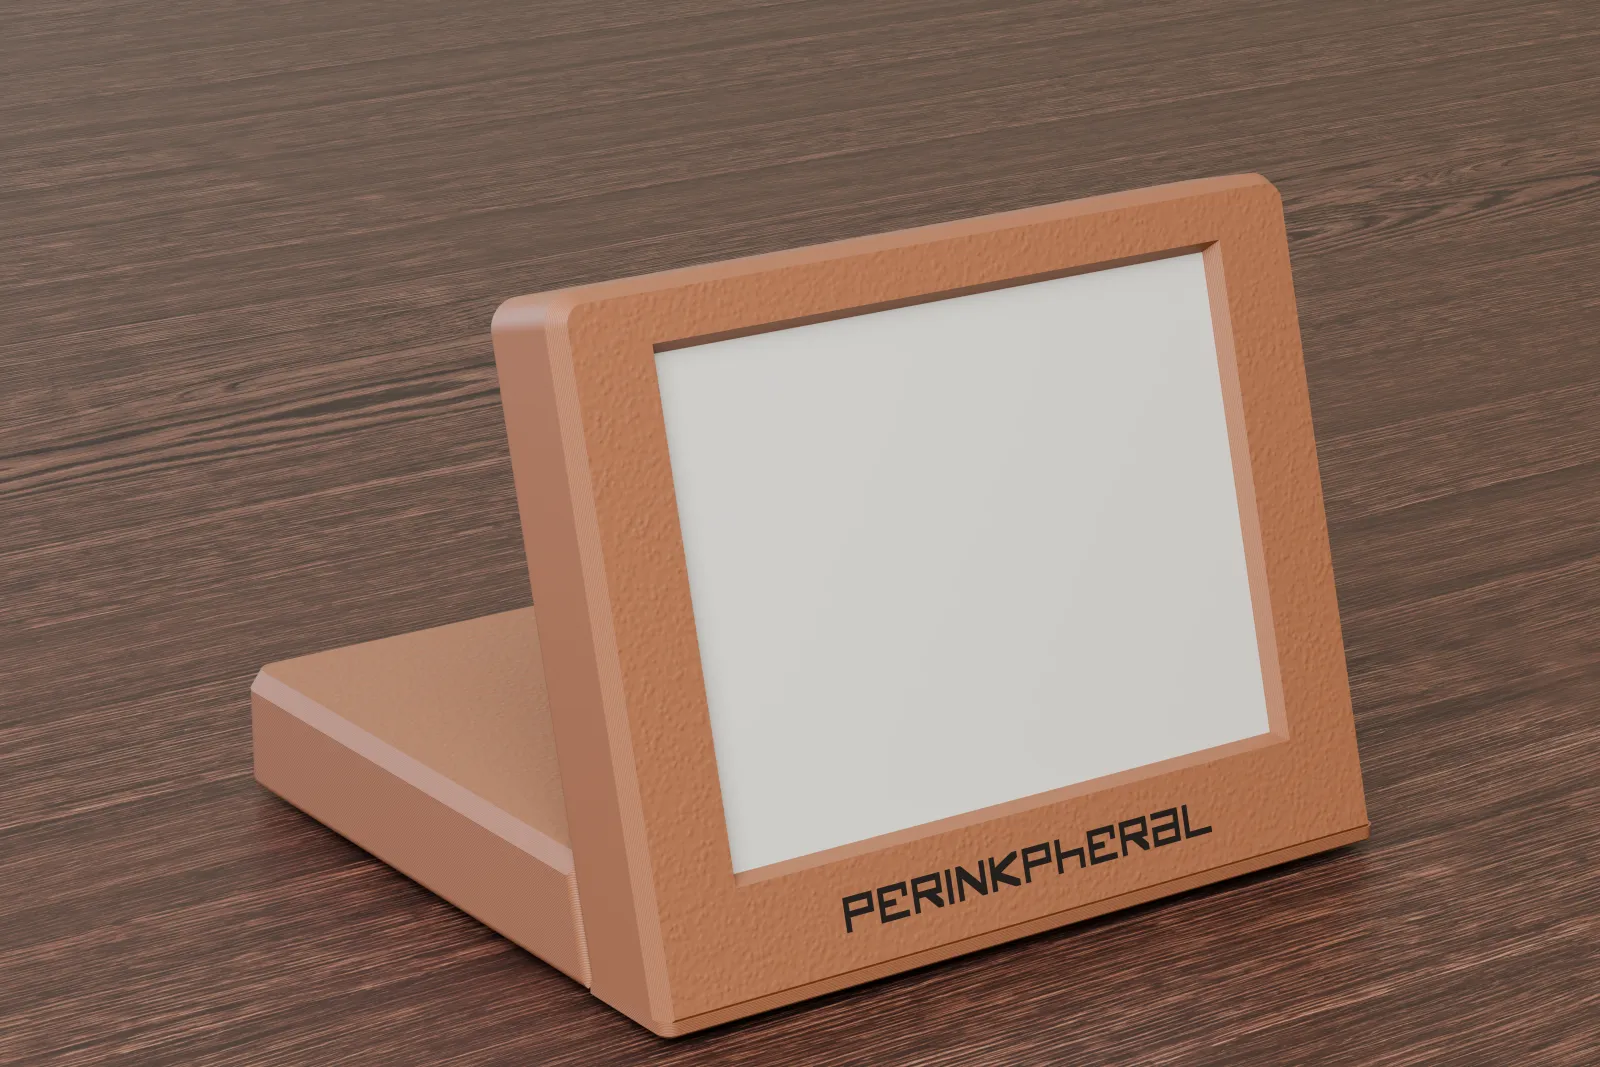
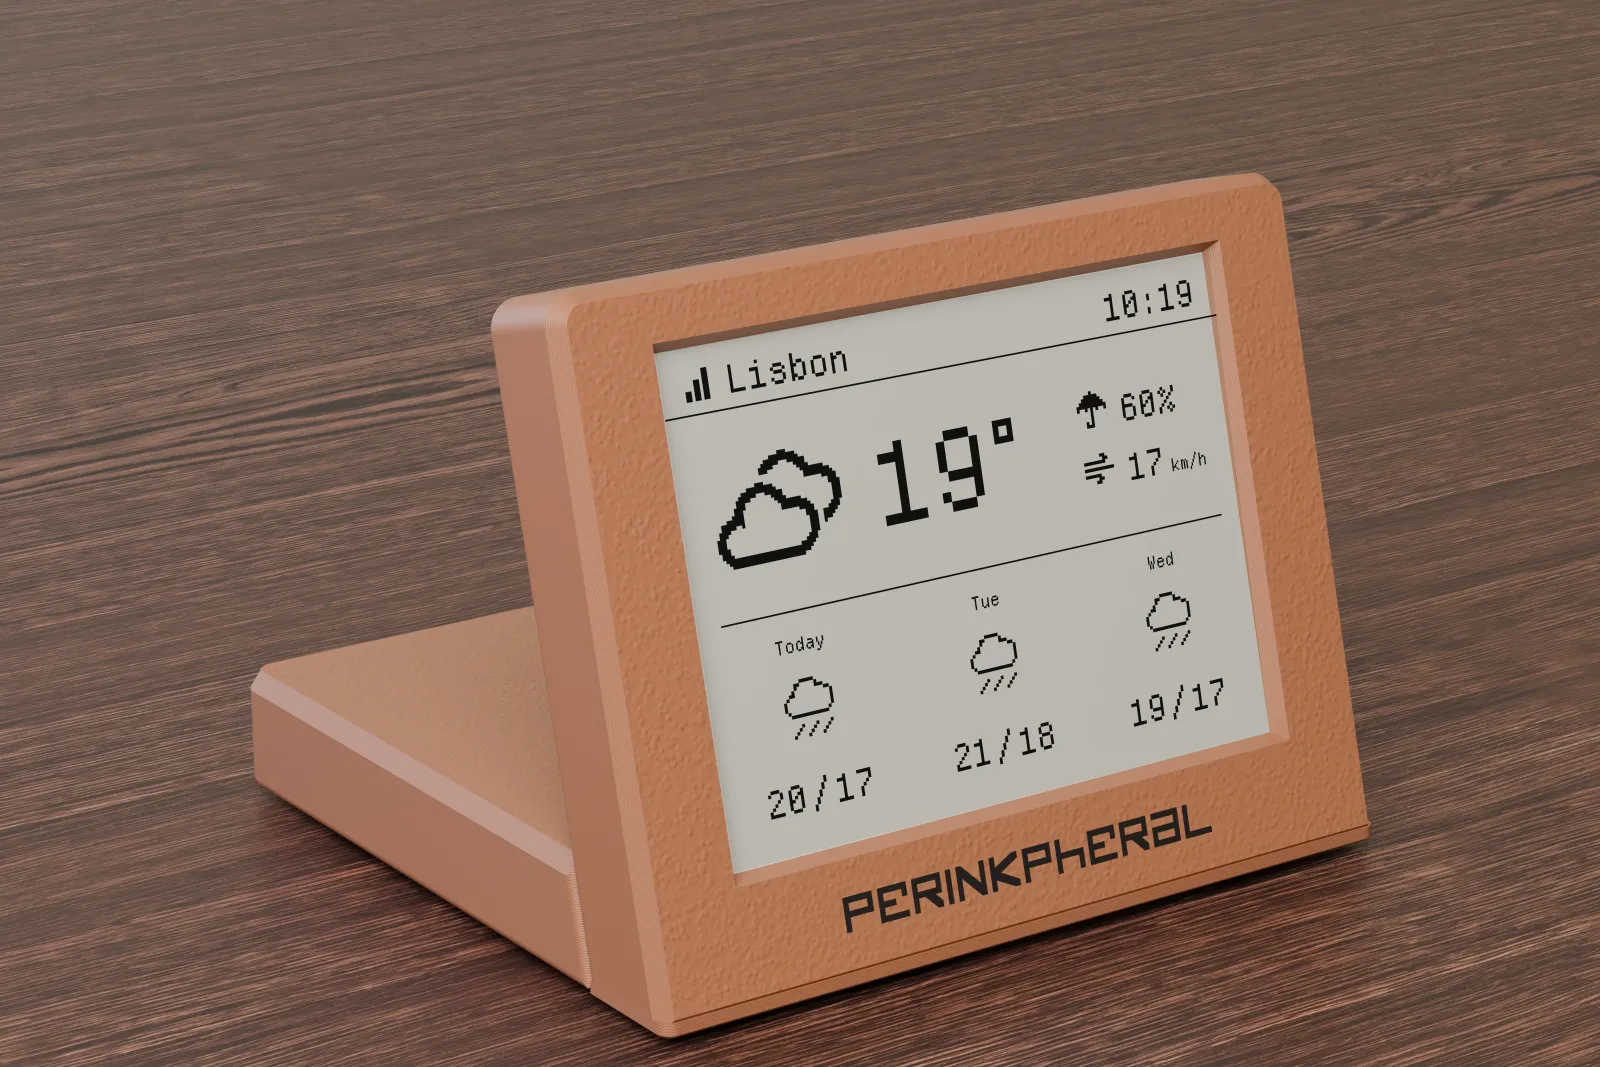
App screens on every render that shows the panel; a carousel on the landing page
scripts/images.sh puts a frame of an app into the window of the front and
both three-quarter renders, warped to the window's corners and multiplied in
so the render's light stays. The landing page turns through the front view
with four apps.

Claude-Session: https://claude.ai/code/session_01KXCmEFFkCpxfKoCHtEKBV9

diff --git a/src/components/Pictures.tsx b/src/components/Pictures.tsx
@@ -1,4 +1,4 @@
-import { useRef, useState } from 'react'
+import { useEffect, useRef, useState } from 'react'
 
 const BASE = import.meta.env.BASE_URL
 
@@ -93,5 +93,75 @@ export function Gallery({ shots }: { shots: Shot[] }) {
         </div>
       </dialog>
     </>
+  )
+}
+
+export type Slide = { name: string; caption: string }
+
+const TURN_MS = 5000
+
+// Renders that turn by themselves, one every few seconds, and by the arrows
+// and the squares under them. Held while the pointer is over them, and still
+// for a reader who asked for less motion.
+export function Carousel({ slides, sizes }: { slides: Slide[]; sizes: string }) {
+  const [shown, setShown] = useState(0)
+  const [held, setHeld] = useState(false)
+  const still =
+    typeof window !== 'undefined' && window.matchMedia('(prefers-reduced-motion: reduce)').matches
+  useEffect(() => {
+    if (held || still) {
+      return
+    }
+    const timer = setTimeout(() => setShown((shown + 1) % slides.length), TURN_MS)
+    return () => clearTimeout(timer)
+  }, [shown, held, still, slides.length])
+  const go = (index: number) => setShown((index + slides.length) % slides.length)
+  return (
+    <div
+      className="carousel"
+      onMouseEnter={() => setHeld(true)}
+      onMouseLeave={() => setHeld(false)}
+      onFocus={() => setHeld(true)}
+      onBlur={() => setHeld(false)}
+      aria-roledescription="carousel"
+    >
+      <div className="slides">
+        {slides.map((slide, index) => (
+          <img
+            key={slide.name}
+            {...renderSources(slide.name)}
+            sizes={sizes}
+            alt={`perINKpheral showing ${slide.caption}`}
+            width={1600}
+            height={1067}
+            className={index === shown ? 'shown' : undefined}
+            aria-hidden={index !== shown}
+            loading={index === 0 ? 'eager' : 'lazy'}
+            fetchPriority={index === 0 ? 'high' : undefined}
+          />
+        ))}
+      </div>
+      <div className="controls">
+        <button type="button" onClick={() => go(shown - 1)} aria-label="Previous">
+          &lt;
+        </button>
+        <div className="dots">
+          {slides.map((slide, index) => (
+            <button
+              key={slide.name}
+              type="button"
+              className={index === shown ? 'dot shown' : 'dot'}
+              onClick={() => go(index)}
+              aria-label={slide.caption}
+              aria-current={index === shown}
+            />
+          ))}
+        </div>
+        <span className="caption">{slides[shown].caption}</span>
+        <button type="button" onClick={() => go(shown + 1)} aria-label="Next">
+          &gt;
+        </button>
+      </div>
+    </div>
   )
 }

diff --git a/src/styles/_pages.scss b/src/styles/_pages.scss
@@ -319,3 +319,83 @@
     color: #3a3936;
   }
 }
+
+// ---- the turning picture of the landing page ----
+
+.carousel {
+  .slides {
+    position: relative;
+    aspect-ratio: 3 / 2;
+    border: 1px solid var(--ink);
+    box-shadow: 10px 10px 0 var(--ink);
+    background: #d6d2ca;
+    overflow: hidden;
+  }
+
+  img {
+    position: absolute;
+    inset: 0;
+    width: 100%;
+    height: 100%;
+    object-fit: cover;
+    opacity: 0;
+    transition: opacity 0.4s ease;
+
+    &.shown {
+      opacity: 1;
+    }
+  }
+
+  .controls {
+    display: flex;
+    align-items: center;
+    gap: 0.75rem;
+    margin-top: 1.5rem;
+
+    > button {
+      width: 2.4rem;
+      height: 2.4rem;
+      font: inherit;
+      color: var(--ink);
+      background: var(--paper);
+      border: 1px solid var(--ink);
+      border-radius: 0;
+      cursor: pointer;
+
+      &:hover {
+        color: var(--paper);
+        background: var(--ink);
+      }
+    }
+  }
+
+  .dots {
+    display: flex;
+    gap: 0.4rem;
+  }
+
+  .dot {
+    width: 0.8rem;
+    height: 0.8rem;
+    padding: 0;
+    background: var(--paper);
+    border: 1px solid var(--ink);
+    border-radius: 0;
+    cursor: pointer;
+
+    &.shown {
+      background: var(--ink);
+    }
+  }
+
+  .caption {
+    margin-left: auto;
+    color: var(--dim);
+  }
+
+  @media (prefers-reduced-motion: reduce) {
+    img {
+      transition: none;
+    }
+  }
+}

diff --git a/src/pages/Home.tsx b/src/pages/Home.tsx
@@ -1,6 +1,6 @@
 import { Link } from 'react-router-dom'
 import { Mark, Wordmark } from '../components/Brand'
-import { Gallery, Render, Screen } from '../components/Pictures'
+import { Carousel, Gallery, Screen } from '../components/Pictures'
 import { APPS } from '../content/apps'
 
 const SPECS: [string, string][] = [
@@ -17,6 +17,13 @@ const FEATURES: [string, string][] = [
   ['No account', 'No sign-up and no cloud. Data comes straight from the source.'],
   ['Set up in a browser', 'Install apps and change settings from your phone or computer.'],
   ['Buttons', 'Switch apps, flip pages, start a timer.'],
+]
+
+const HERO = [
+  { name: 'hero-sun', caption: 'Sun and Moon' },
+  { name: 'hero-weather', caption: 'Weather' },
+  { name: 'hero-stocks', caption: 'Stocks' },
+  { name: 'hero-timer', caption: 'Timer' },
 ]
 
 const SCREENS = [
@@ -78,7 +85,7 @@ export function Home() {
             </div>
           </div>
           <div className="hero-picture">
-            <Render name="hero" alt="perINKpheral on a desk" sizes="(max-width: 64rem) 100vw, 56vw" eager />
+            <Carousel slides={HERO} sizes="(max-width: 64rem) 100vw, 56vw" />
           </div>
         </div>
       </section>
